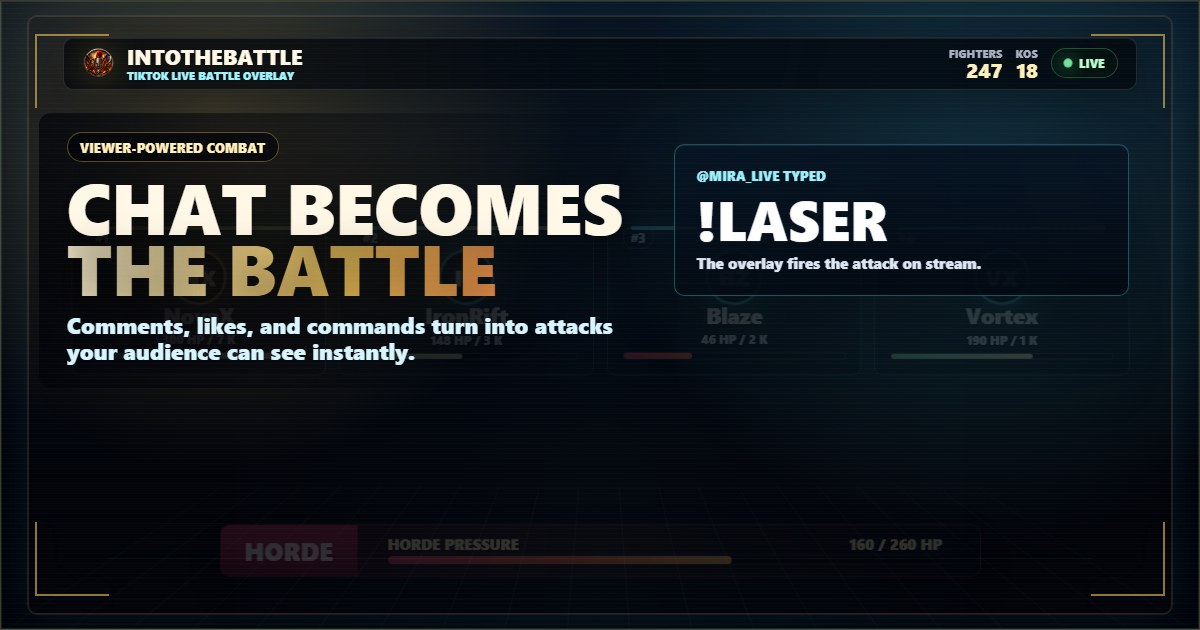
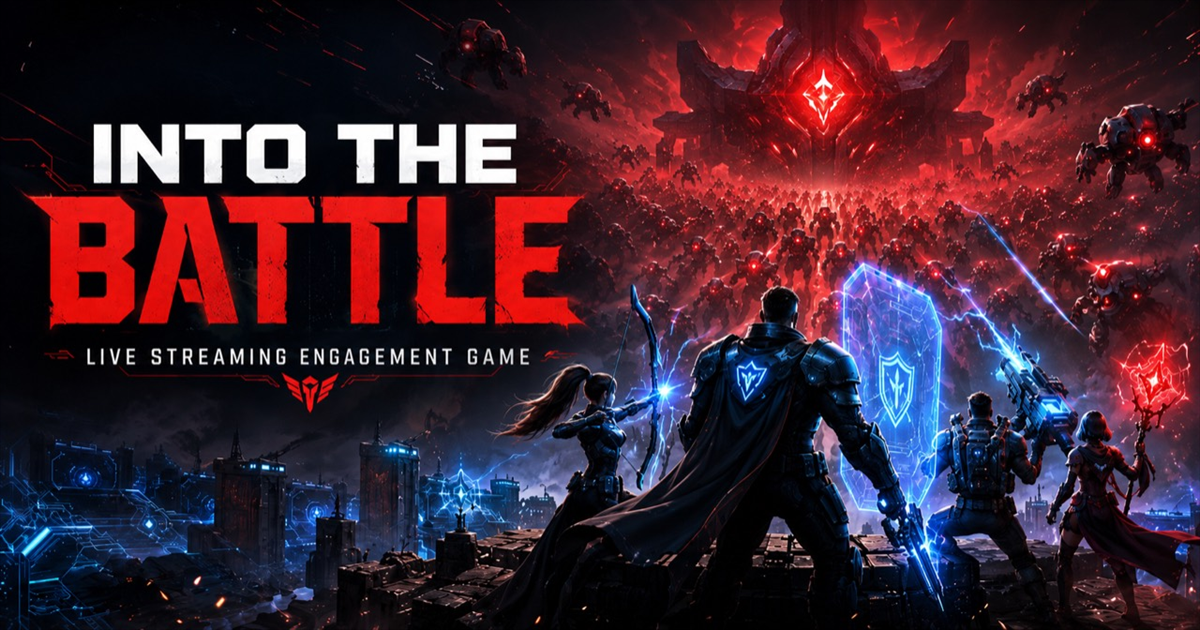
Update social preview image

diff --git a/home.html b/home.html
@@ -13,19 +13,19 @@
   <meta property="og:title" content="IntoTheBattle | TikTok LIVE Battle Overlay" />
   <meta property="og:description" content="Turn TikTok LIVE chat into an interactive battle overlay for OBS and TikTok Studio with viewer attacks, stats, sounds, boss waves, and video moments." />
   <meta property="og:url" content="https://intothebattle.com/" />
-  <meta property="og:image" content="https://intothebattle.com/og-intothebattle.png" />
-  <meta property="og:image:secure_url" content="https://intothebattle.com/og-intothebattle.png" />
+  <meta property="og:image" content="https://intothebattle.com/og-intothebattle.png?v=20260627" />
+  <meta property="og:image:secure_url" content="https://intothebattle.com/og-intothebattle.png?v=20260627" />
   <meta property="og:image:type" content="image/png" />
   <meta property="og:image:width" content="1200" />
   <meta property="og:image:height" content="630" />
-  <meta property="og:image:alt" content="IntoTheBattle TikTok LIVE battle overlay preview showing chat becoming combat." />
+  <meta property="og:image:alt" content="IntoTheBattle live streaming engagement game key art with creators facing a red enemy horde." />
   <meta property="og:site_name" content="IntoTheBattle" />
   <meta name="twitter:card" content="summary_large_image" />
   <meta name="twitter:title" content="IntoTheBattle | TikTok LIVE Battle Overlay" />
   <meta name="twitter:description" content="Turn TikTok LIVE chat into an interactive battle overlay for OBS and TikTok Studio with viewer-powered combat moments." />
-  <meta name="twitter:image" content="https://intothebattle.com/og-intothebattle.png" />
-  <meta name="twitter:image:alt" content="IntoTheBattle TikTok LIVE battle overlay preview showing chat becoming combat." />
-  <link rel="image_src" href="https://intothebattle.com/og-intothebattle.png" />
+  <meta name="twitter:image" content="https://intothebattle.com/og-intothebattle.png?v=20260627" />
+  <meta name="twitter:image:alt" content="IntoTheBattle live streaming engagement game key art with creators facing a red enemy horde." />
+  <link rel="image_src" href="https://intothebattle.com/og-intothebattle.png?v=20260627" />
   <link rel="icon" href="/intothebattlelogo_logo_only.svg" />
   <link rel="apple-touch-icon" href="/intothebattlelogo_logo_only.svg" />
   <script type="module" src="/js/clarity-loader.js"></script>

diff --git a/how-to-play.html b/how-to-play.html
@@ -12,18 +12,18 @@
   <meta property="og:title" content="How To Play IntoTheBattle | TikTok LIVE Viewer Commands" />
   <meta property="og:description" content="Learn how viewers join the battle, change emoji icons, fire attacks, shield allies, heal teammates, and power the arena during TikTok LIVE." />
   <meta property="og:url" content="https://intothebattle.com/how-to-play" />
-  <meta property="og:image" content="https://intothebattle.com/og-intothebattle.png" />
-  <meta property="og:image:secure_url" content="https://intothebattle.com/og-intothebattle.png" />
+  <meta property="og:image" content="https://intothebattle.com/og-intothebattle.png?v=20260627" />
+  <meta property="og:image:secure_url" content="https://intothebattle.com/og-intothebattle.png?v=20260627" />
   <meta property="og:image:type" content="image/png" />
   <meta property="og:image:width" content="1200" />
   <meta property="og:image:height" content="630" />
-  <meta property="og:image:alt" content="IntoTheBattle TikTok LIVE viewer command and battle overlay preview." />
+  <meta property="og:image:alt" content="IntoTheBattle live streaming engagement game key art with creators facing a red enemy horde." />
   <meta property="og:site_name" content="IntoTheBattle" />
   <meta name="twitter:card" content="summary_large_image" />
   <meta name="twitter:title" content="How To Play IntoTheBattle | Viewer Commands" />
   <meta name="twitter:description" content="A clear guide to IntoTheBattle TikTok LIVE commands, attacks, shields, healing, likes, gifts, and arena moments." />
-  <meta name="twitter:image" content="https://intothebattle.com/og-intothebattle.png" />
-  <meta name="twitter:image:alt" content="IntoTheBattle TikTok LIVE viewer command and battle overlay preview." />
+  <meta name="twitter:image" content="https://intothebattle.com/og-intothebattle.png?v=20260627" />
+  <meta name="twitter:image:alt" content="IntoTheBattle live streaming engagement game key art with creators facing a red enemy horde." />
   <link rel="icon" href="/intothebattlelogo_logo_only.svg" />
   <link rel="apple-touch-icon" href="/intothebattlelogo_logo_only.svg" />
   <script type="module" src="/js/clarity-loader.js"></script>

diff --git a/paywall.html b/paywall.html
@@ -13,18 +13,18 @@
   <meta property="og:title" content="IntoTheBattle Creator Pro | Custom Battle Overlay Controls" />
   <meta property="og:description" content="Unlock custom video moments, premium overlay controls, creator assets, and stream-ready presentation after the 7-day everything-unlocked period." />
   <meta property="og:url" content="https://intothebattle.com/paywall" />
-  <meta property="og:image" content="https://intothebattle.com/og-intothebattle.png" />
-  <meta property="og:image:secure_url" content="https://intothebattle.com/og-intothebattle.png" />
+  <meta property="og:image" content="https://intothebattle.com/og-intothebattle.png?v=20260627" />
+  <meta property="og:image:secure_url" content="https://intothebattle.com/og-intothebattle.png?v=20260627" />
   <meta property="og:image:type" content="image/png" />
   <meta property="og:image:width" content="1200" />
   <meta property="og:image:height" content="630" />
-  <meta property="og:image:alt" content="IntoTheBattle Creator Pro TikTok LIVE battle overlay preview." />
+  <meta property="og:image:alt" content="IntoTheBattle live streaming engagement game key art with creators facing a red enemy horde." />
   <meta property="og:site_name" content="IntoTheBattle" />
   <meta name="twitter:card" content="summary_large_image" />
   <meta name="twitter:title" content="IntoTheBattle Creator Pro" />
   <meta name="twitter:description" content="$12/mo plus applicable tax for custom battle overlay controls, video moments, and premium stream polish." />
-  <meta name="twitter:image" content="https://intothebattle.com/og-intothebattle.png" />
-  <meta name="twitter:image:alt" content="IntoTheBattle Creator Pro TikTok LIVE battle overlay preview." />
+  <meta name="twitter:image" content="https://intothebattle.com/og-intothebattle.png?v=20260627" />
+  <meta name="twitter:image:alt" content="IntoTheBattle live streaming engagement game key art with creators facing a red enemy horde." />
   <link rel="icon" href="/intothebattlelogo_logo_only.svg" />
   <link rel="apple-touch-icon" href="/intothebattlelogo_logo_only.svg" />
   <link rel="preconnect" href="https://fonts.googleapis.com" />

diff --git a/sponsors.html b/sponsors.html
@@ -12,18 +12,18 @@
   <meta property="og:title" content="IntoTheBattle Sponsors | Live Stream Brand Takeovers" />
   <meta property="og:description" content="Put your brand inside TikTok LIVE battle moments with sports-broadcast style video breaks that return viewers to the action." />
   <meta property="og:url" content="https://intothebattle.com/sponsors" />
-  <meta property="og:image" content="https://intothebattle.com/og-intothebattle.png" />
-  <meta property="og:image:secure_url" content="https://intothebattle.com/og-intothebattle.png" />
+  <meta property="og:image" content="https://intothebattle.com/og-intothebattle.png?v=20260627" />
+  <meta property="og:image:secure_url" content="https://intothebattle.com/og-intothebattle.png?v=20260627" />
   <meta property="og:image:type" content="image/png" />
   <meta property="og:image:width" content="1200" />
   <meta property="og:image:height" content="630" />
-  <meta property="og:image:alt" content="IntoTheBattle live stream battle overlay and brand moment preview." />
+  <meta property="og:image:alt" content="IntoTheBattle live streaming engagement game key art with creators facing a red enemy horde." />
   <meta property="og:site_name" content="IntoTheBattle" />
   <meta name="twitter:card" content="summary_large_image" />
   <meta name="twitter:title" content="IntoTheBattle Sponsors | Live Stream Brand Takeovers" />
   <meta name="twitter:description" content="Sports-broadcast style brand moments inside playable TikTok LIVE battle streams." />
-  <meta name="twitter:image" content="https://intothebattle.com/og-intothebattle.png" />
-  <meta name="twitter:image:alt" content="IntoTheBattle live stream battle overlay and brand moment preview." />
+  <meta name="twitter:image" content="https://intothebattle.com/og-intothebattle.png?v=20260627" />
+  <meta name="twitter:image:alt" content="IntoTheBattle live streaming engagement game key art with creators facing a red enemy horde." />
   <link rel="icon" href="/intothebattlelogo_logo_only.svg" />
   <link rel="apple-touch-icon" href="/intothebattlelogo_logo_only.svg" />
   <script type="module" src="/js/clarity-loader.js"></script>

diff --git a/sitemap.html b/sitemap.html
@@ -12,18 +12,18 @@
   <meta property="og:title" content="IntoTheBattle Site Map" />
   <meta property="og:description" content="Find IntoTheBattle creator, player, sponsor, account, and support pages from one site map." />
   <meta property="og:url" content="https://intothebattle.com/site-map" />
-  <meta property="og:image" content="https://intothebattle.com/og-intothebattle.png" />
-  <meta property="og:image:secure_url" content="https://intothebattle.com/og-intothebattle.png" />
+  <meta property="og:image" content="https://intothebattle.com/og-intothebattle.png?v=20260627" />
+  <meta property="og:image:secure_url" content="https://intothebattle.com/og-intothebattle.png?v=20260627" />
   <meta property="og:image:type" content="image/png" />
   <meta property="og:image:width" content="1200" />
   <meta property="og:image:height" content="630" />
-  <meta property="og:image:alt" content="IntoTheBattle TikTok LIVE battle overlay preview." />
+  <meta property="og:image:alt" content="IntoTheBattle live streaming engagement game key art with creators facing a red enemy horde." />
   <meta property="og:site_name" content="IntoTheBattle" />
   <meta name="twitter:card" content="summary_large_image" />
   <meta name="twitter:title" content="IntoTheBattle Site Map" />
   <meta name="twitter:description" content="Find IntoTheBattle creator, player, sponsor, account, and support pages from one site map." />
-  <meta name="twitter:image" content="https://intothebattle.com/og-intothebattle.png" />
-  <meta name="twitter:image:alt" content="IntoTheBattle TikTok LIVE battle overlay preview." />
+  <meta name="twitter:image" content="https://intothebattle.com/og-intothebattle.png?v=20260627" />
+  <meta name="twitter:image:alt" content="IntoTheBattle live streaming engagement game key art with creators facing a red enemy horde." />
   <link rel="icon" href="/intothebattlelogo_logo_only.svg" />
   <link rel="apple-touch-icon" href="/intothebattlelogo_logo_only.svg" />
   <script type="module" src="/js/clarity-loader.js"></script>

diff --git a/signup.html b/signup.html
@@ -14,19 +14,19 @@
   <meta property="og:title" content="Create Your Free IntoTheBattle Account" />
   <meta property="og:description" content="Choose Google or email, create your room, and launch your TikTok LIVE battle overlay for OBS or TikTok Studio in under 5 minutes." />
   <meta property="og:url" content="https://intothebattle.com/signup" />
-  <meta property="og:image" content="https://intothebattle.com/og-intothebattle.png" />
-  <meta property="og:image:secure_url" content="https://intothebattle.com/og-intothebattle.png" />
+  <meta property="og:image" content="https://intothebattle.com/og-intothebattle.png?v=20260627" />
+  <meta property="og:image:secure_url" content="https://intothebattle.com/og-intothebattle.png?v=20260627" />
   <meta property="og:image:type" content="image/png" />
   <meta property="og:image:width" content="1200" />
   <meta property="og:image:height" content="630" />
-  <meta property="og:image:alt" content="IntoTheBattle TikTok LIVE battle overlay preview." />
+  <meta property="og:image:alt" content="IntoTheBattle live streaming engagement game key art with creators facing a red enemy horde." />
   <meta property="og:site_name" content="IntoTheBattle" />
 
   <meta name="twitter:card" content="summary_large_image" />
   <meta name="twitter:title" content="Create Your Free IntoTheBattle Account" />
   <meta name="twitter:description" content="Create your room and launch your TikTok LIVE battle overlay in under 5 minutes." />
-  <meta name="twitter:image" content="https://intothebattle.com/og-intothebattle.png" />
-  <meta name="twitter:image:alt" content="IntoTheBattle TikTok LIVE battle overlay preview." />
+  <meta name="twitter:image" content="https://intothebattle.com/og-intothebattle.png?v=20260627" />
+  <meta name="twitter:image:alt" content="IntoTheBattle live streaming engagement game key art with creators facing a red enemy horde." />
 
   <link rel="icon" href="/intothebattlelogo_logo_only.svg" />
   <link rel="apple-touch-icon" href="/intothebattlelogo_logo_only.svg" />

diff --git a/battlegrounds.html b/battlegrounds.html
@@ -11,7 +11,7 @@
   <meta property="og:title" content="The Battlegrounds | IntoTheBattle" />
   <meta property="og:description" content="A public board for creators announcing upcoming IntoTheBattle live battles." />
   <meta property="og:url" content="https://intothebattle.com/battlegrounds" />
-  <meta property="og:image" content="https://intothebattle.com/og-intothebattle.png" />
+  <meta property="og:image" content="https://intothebattle.com/og-intothebattle.png?v=20260627" />
   <link rel="icon" href="/intothebattlelogo_logo_only.svg" />
   <link rel="apple-touch-icon" href="/intothebattlelogo_logo_only.svg" />
   <script type="module" src="/js/clarity-loader.js"></script>
